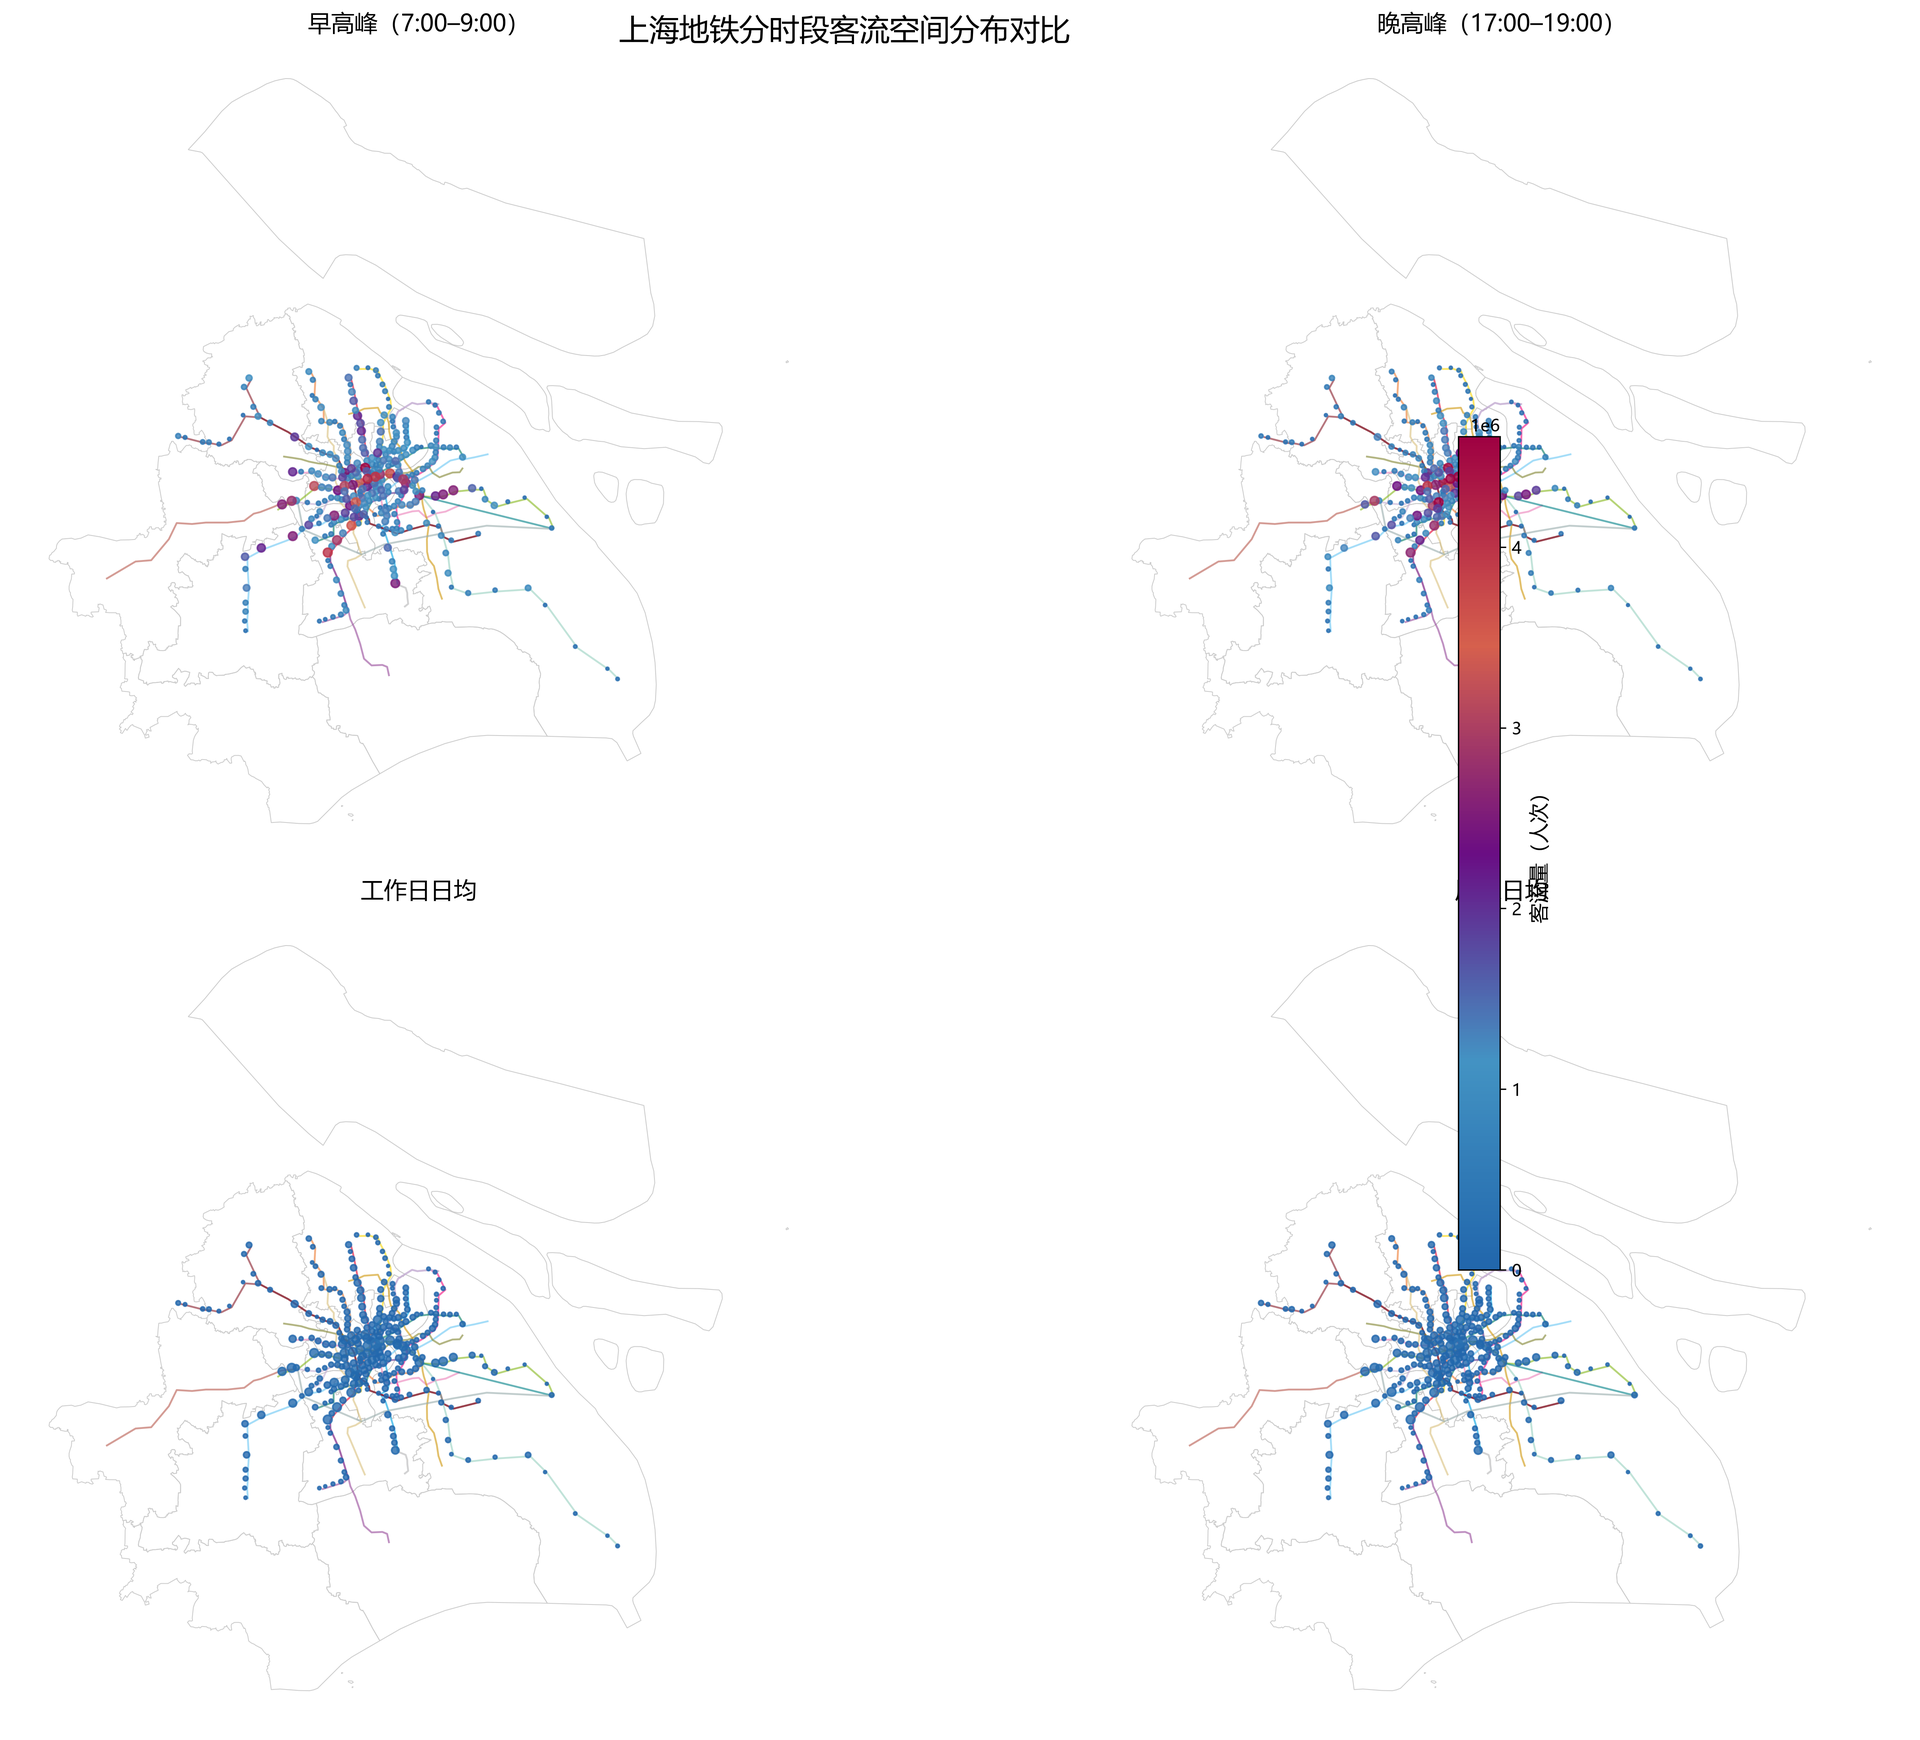
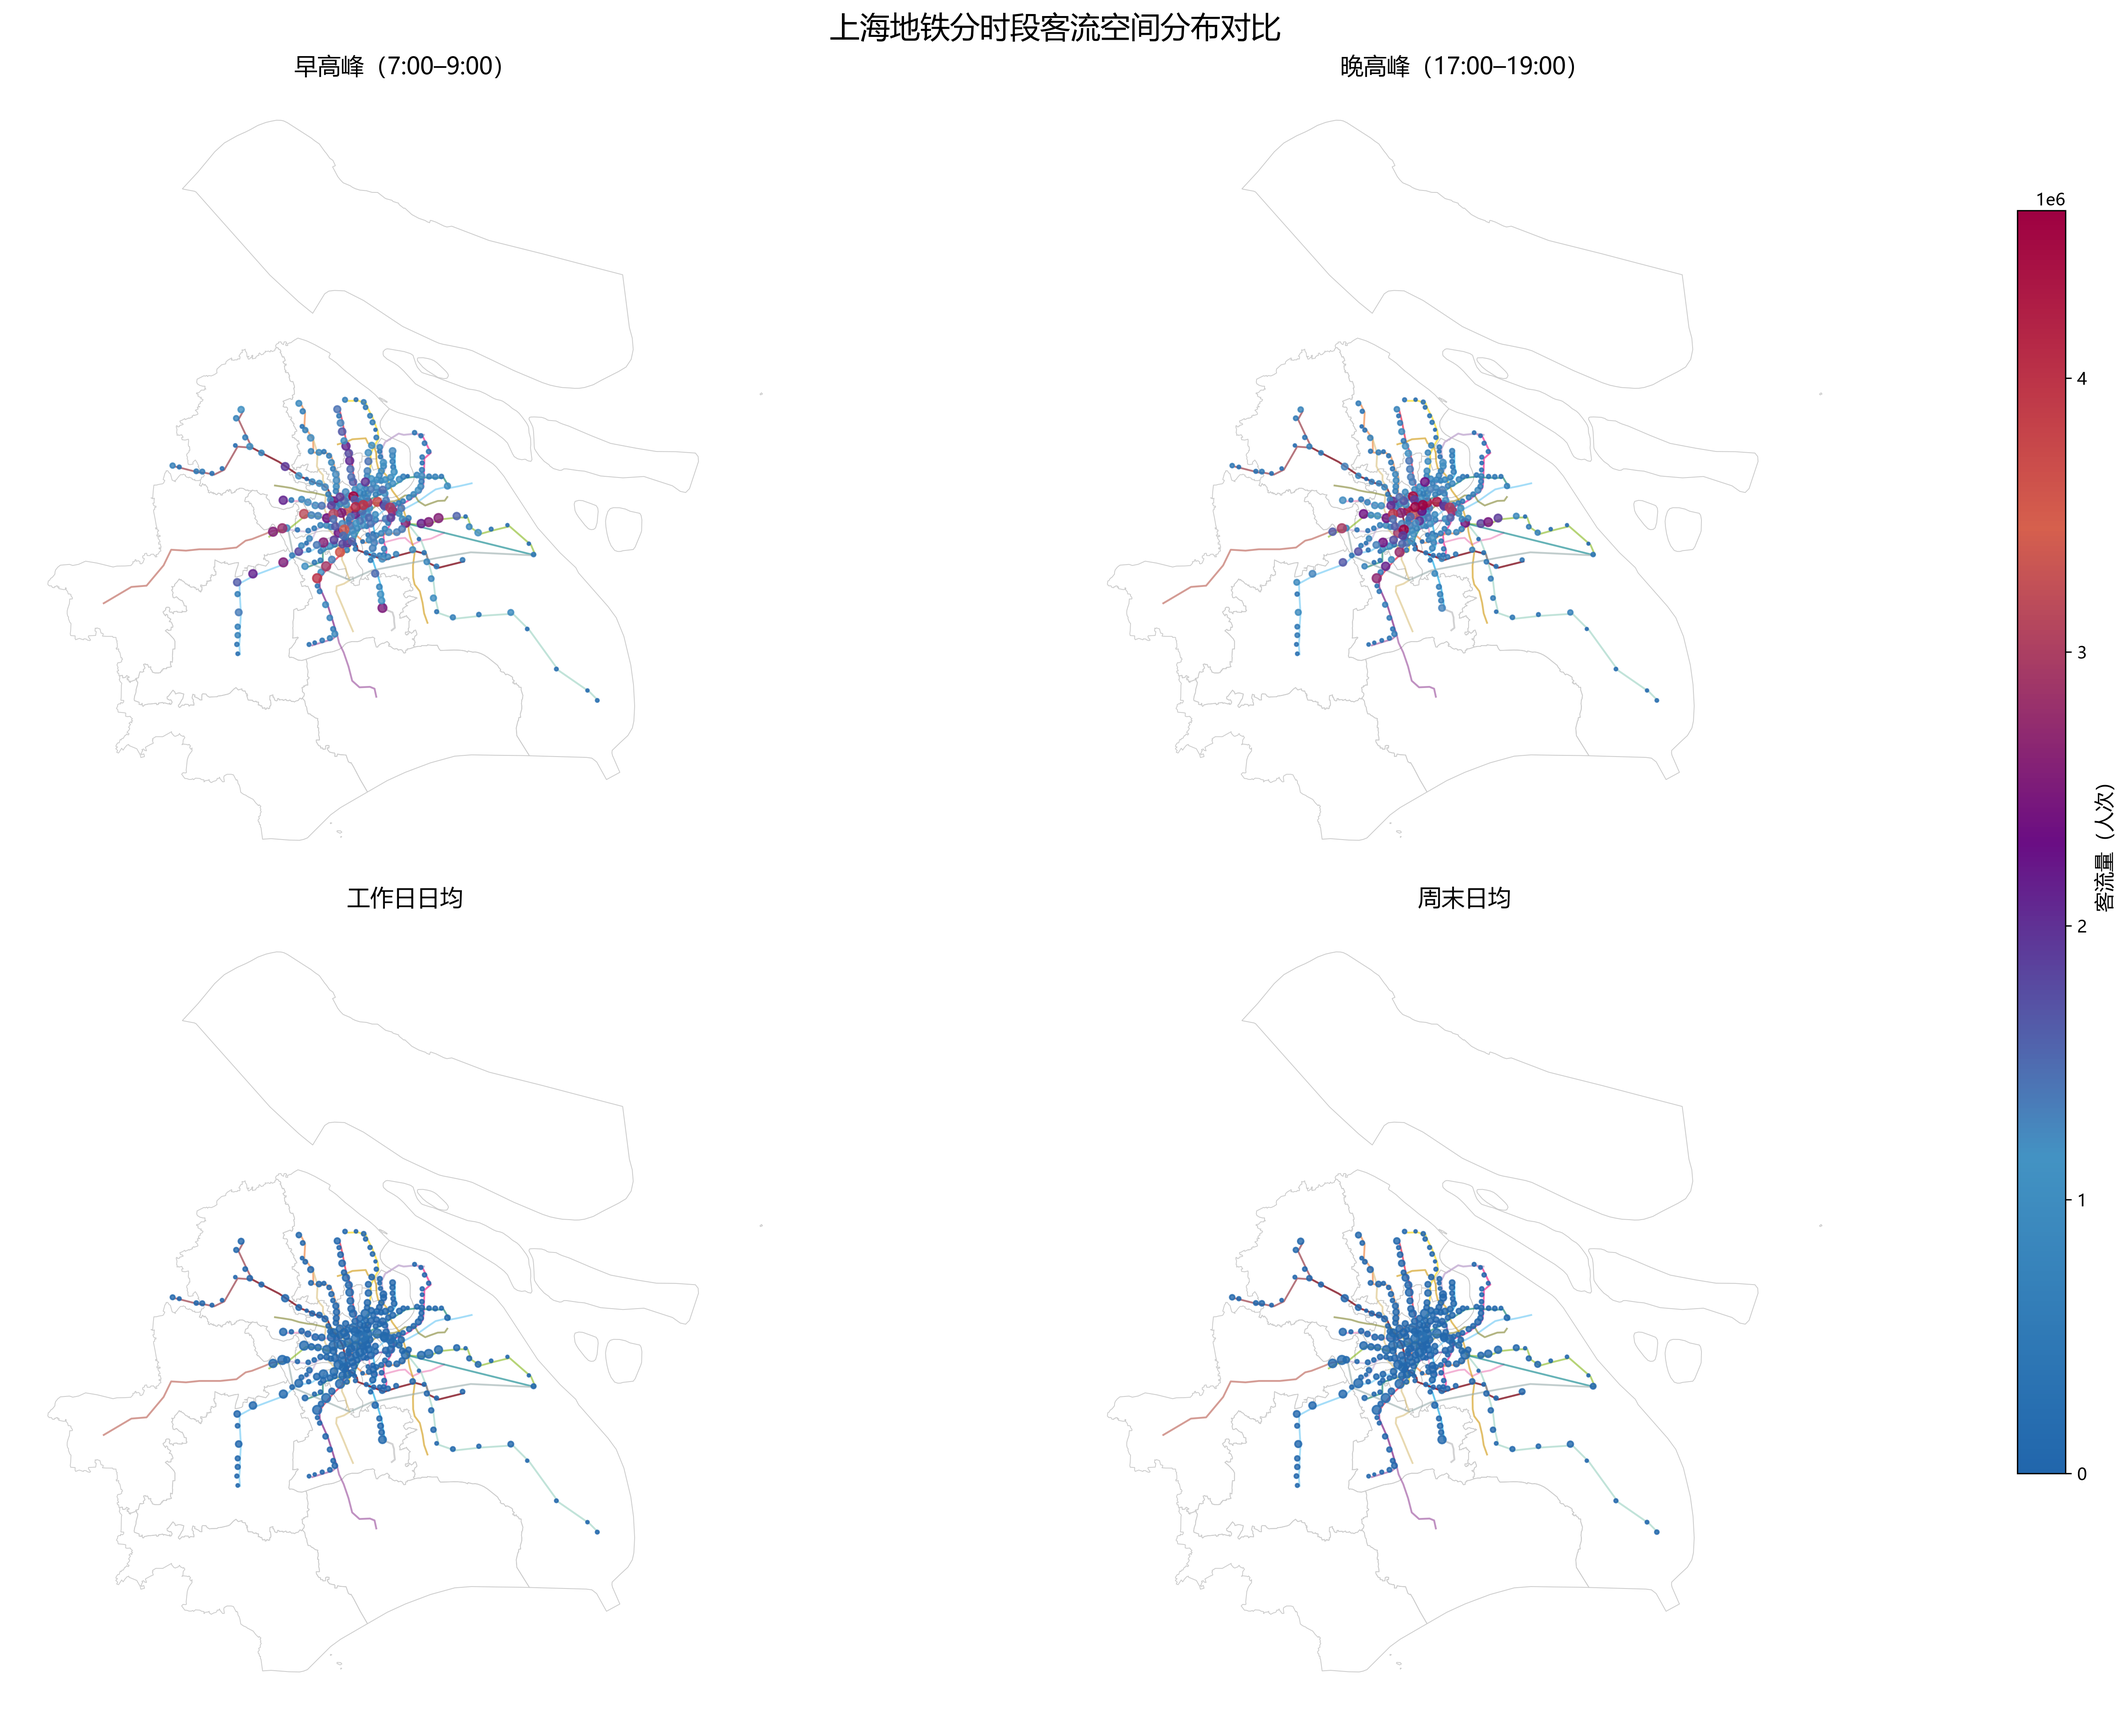
分工3: 修复图3-2颜色条遮挡子图问题，手动指定位置

diff --git a/code/分工3/05_分时段对比图.py b/code/分工3/05_分时段对比图.py
@@ -54,7 +54,7 @@ vmax = station_geo["早高峰客流"].max()
 flow_all = station_geo["早高峰客流"].values
 p95 = np.percentile(flow_all, 95)
 
-fig, axes = plt.subplots(2, 2, figsize=(18, 15), dpi=300)
+fig, axes = plt.subplots(2, 2, figsize=(20, 15), dpi=300)
 axes = axes.flatten()
 
 for i, (col, title) in enumerate(periods):
@@ -74,13 +74,16 @@ for i, (col, title) in enumerate(periods):
 
 plt.suptitle("上海地铁分时段客流空间分布对比", fontsize=18, y=0.96)
 
-# 共享颜色条（四个子图统一色阶）
+# 手动调整布局：右侧留12%空间给colorbar
+fig.subplots_adjust(left=0.02, right=0.88, top=0.92, bottom=0.02, wspace=0.05, hspace=0.05)
+
+# 手动创建colorbar axes，精确位置不挡图
+cbar_ax = fig.add_axes([0.90, 0.15, 0.02, 0.70])
 sm = ScalarMappable(cmap=CMAP_FLOW, norm=plt.Normalize(vmin=0, vmax=vmax))
 sm.set_array([])
-cbar = fig.colorbar(sm, ax=axes, shrink=0.6, pad=0.02)
+cbar = fig.colorbar(sm, cax=cbar_ax)
 cbar.set_label("客流量（人次）", fontsize=12)
 
-plt.tight_layout()
 plt.savefig(OUT_FILE, bbox_inches="tight", facecolor="white")
 plt.close()
 print(f"已保存: {OUT_FILE}")
